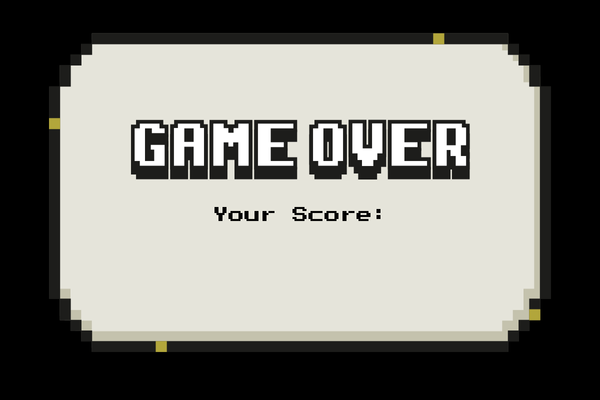
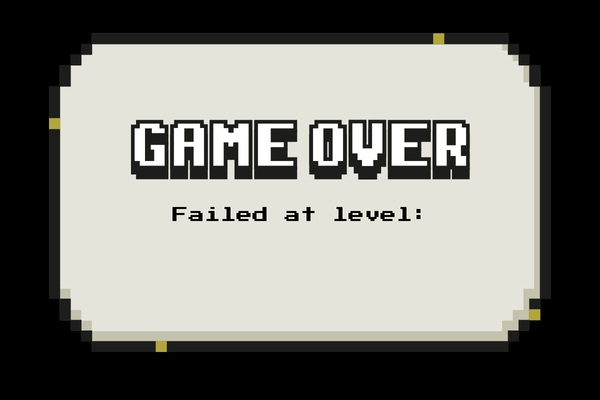
add instruction and show level page

Changed region(s): [[0.48, 0.51, 0.72, 0.57], [0.27, 0.51, 0.45, 0.57]]

diff --git a/InstructionWorld.java b/InstructionWorld.java
@@ -1,0 +1,32 @@
+import greenfoot.*;  // (World, Actor, GreenfootImage, Greenfoot and MouseInfo)
+
+/**
+ * Write a description of class InstructionWorld here.
+ * 
+ * @author (your name) 
+ * @version (a version number or a date)
+ */
+public class InstructionWorld extends World
+{
+
+    /**
+     * Constructor for objects of class InstructionWorld.
+     * 
+     */
+    public InstructionWorld()
+    {    
+        // Create a new world with 600x400 cells with a cell size of 1x1 pixels.
+        super(600, 400, 1); 
+        setBackground(new GreenfootImage("howtoplaypage.png"));
+    }
+    
+    public void act()
+    {
+        if(Greenfoot.isKeyDown("h"))
+        {
+            TitleScreen world = new TitleScreen();
+            Greenfoot.setWorld(world);
+        }
+        
+    }
+}

diff --git a/ShowLevelWorld.java b/ShowLevelWorld.java
@@ -1,0 +1,32 @@
+import greenfoot.*;  // (World, Actor, GreenfootImage, Greenfoot and MouseInfo)
+
+/**
+ * Write a description of class ShowLevelWorld here.
+ * 
+ * @author (your name) 
+ * @version (a version number or a date)
+ */
+public class ShowLevelWorld extends World
+{
+
+    /**
+     * Constructor for objects of class ShowLevelWorld.
+     * 
+     */
+    public ShowLevelWorld()
+    {    
+        // Create a new world with 600x400 cells with a cell size of 1x1 pixels.
+        super(600, 400, 1); 
+        setBackground(new GreenfootImage("levelpage.png"));
+    }
+    
+    public void act()
+    {
+        if(Greenfoot.isKeyDown("h"))
+        {
+            TitleScreen world = new TitleScreen();
+            Greenfoot.setWorld(world);
+        }
+        
+    }
+}

diff --git a/MyWorld.java b/MyWorld.java
@@ -4,6 +4,7 @@ public class MyWorld extends World {
     public int score = 0;
     public boolean gameIsOver = false;
     Label scoreLabel; 
+    Label levelLabel; 
     int level = 1; 
     int ballTimer1 = -1;
     int ballTimer2 = -1;
@@ -144,8 +145,9 @@ public class MyWorld extends World {
         
         gameIsOver = true;
         setBackground(new GreenfootImage("gameover.png"));
-        addObject(scoreLabel, 300, 200);
-        scoreLabel.setLocation(300, 260); 
+        levelLabel = new Label(level, 40);
+        addObject(levelLabel, 300, 200);
+        levelLabel.setLocation(300, 260); 
 
         removeObjects(getObjects(Greentube.class));
         removeObjects(getObjects(Bluetube.class));

diff --git a/TitleScreen.java b/TitleScreen.java
@@ -30,5 +30,17 @@ public class TitleScreen extends World
             TransitionWorld world = new TransitionWorld(1, 0);
             Greenfoot.setWorld(world);
         }
+        
+        if(Greenfoot.isKeyDown("i"))
+        {
+            InstructionWorld world = new InstructionWorld();
+            Greenfoot.setWorld(world);
+        }
+        
+        if(Greenfoot.isKeyDown("v"))
+        {
+            ShowLevelWorld world = new ShowLevelWorld();
+            Greenfoot.setWorld(world);
+        }
     }
 }
